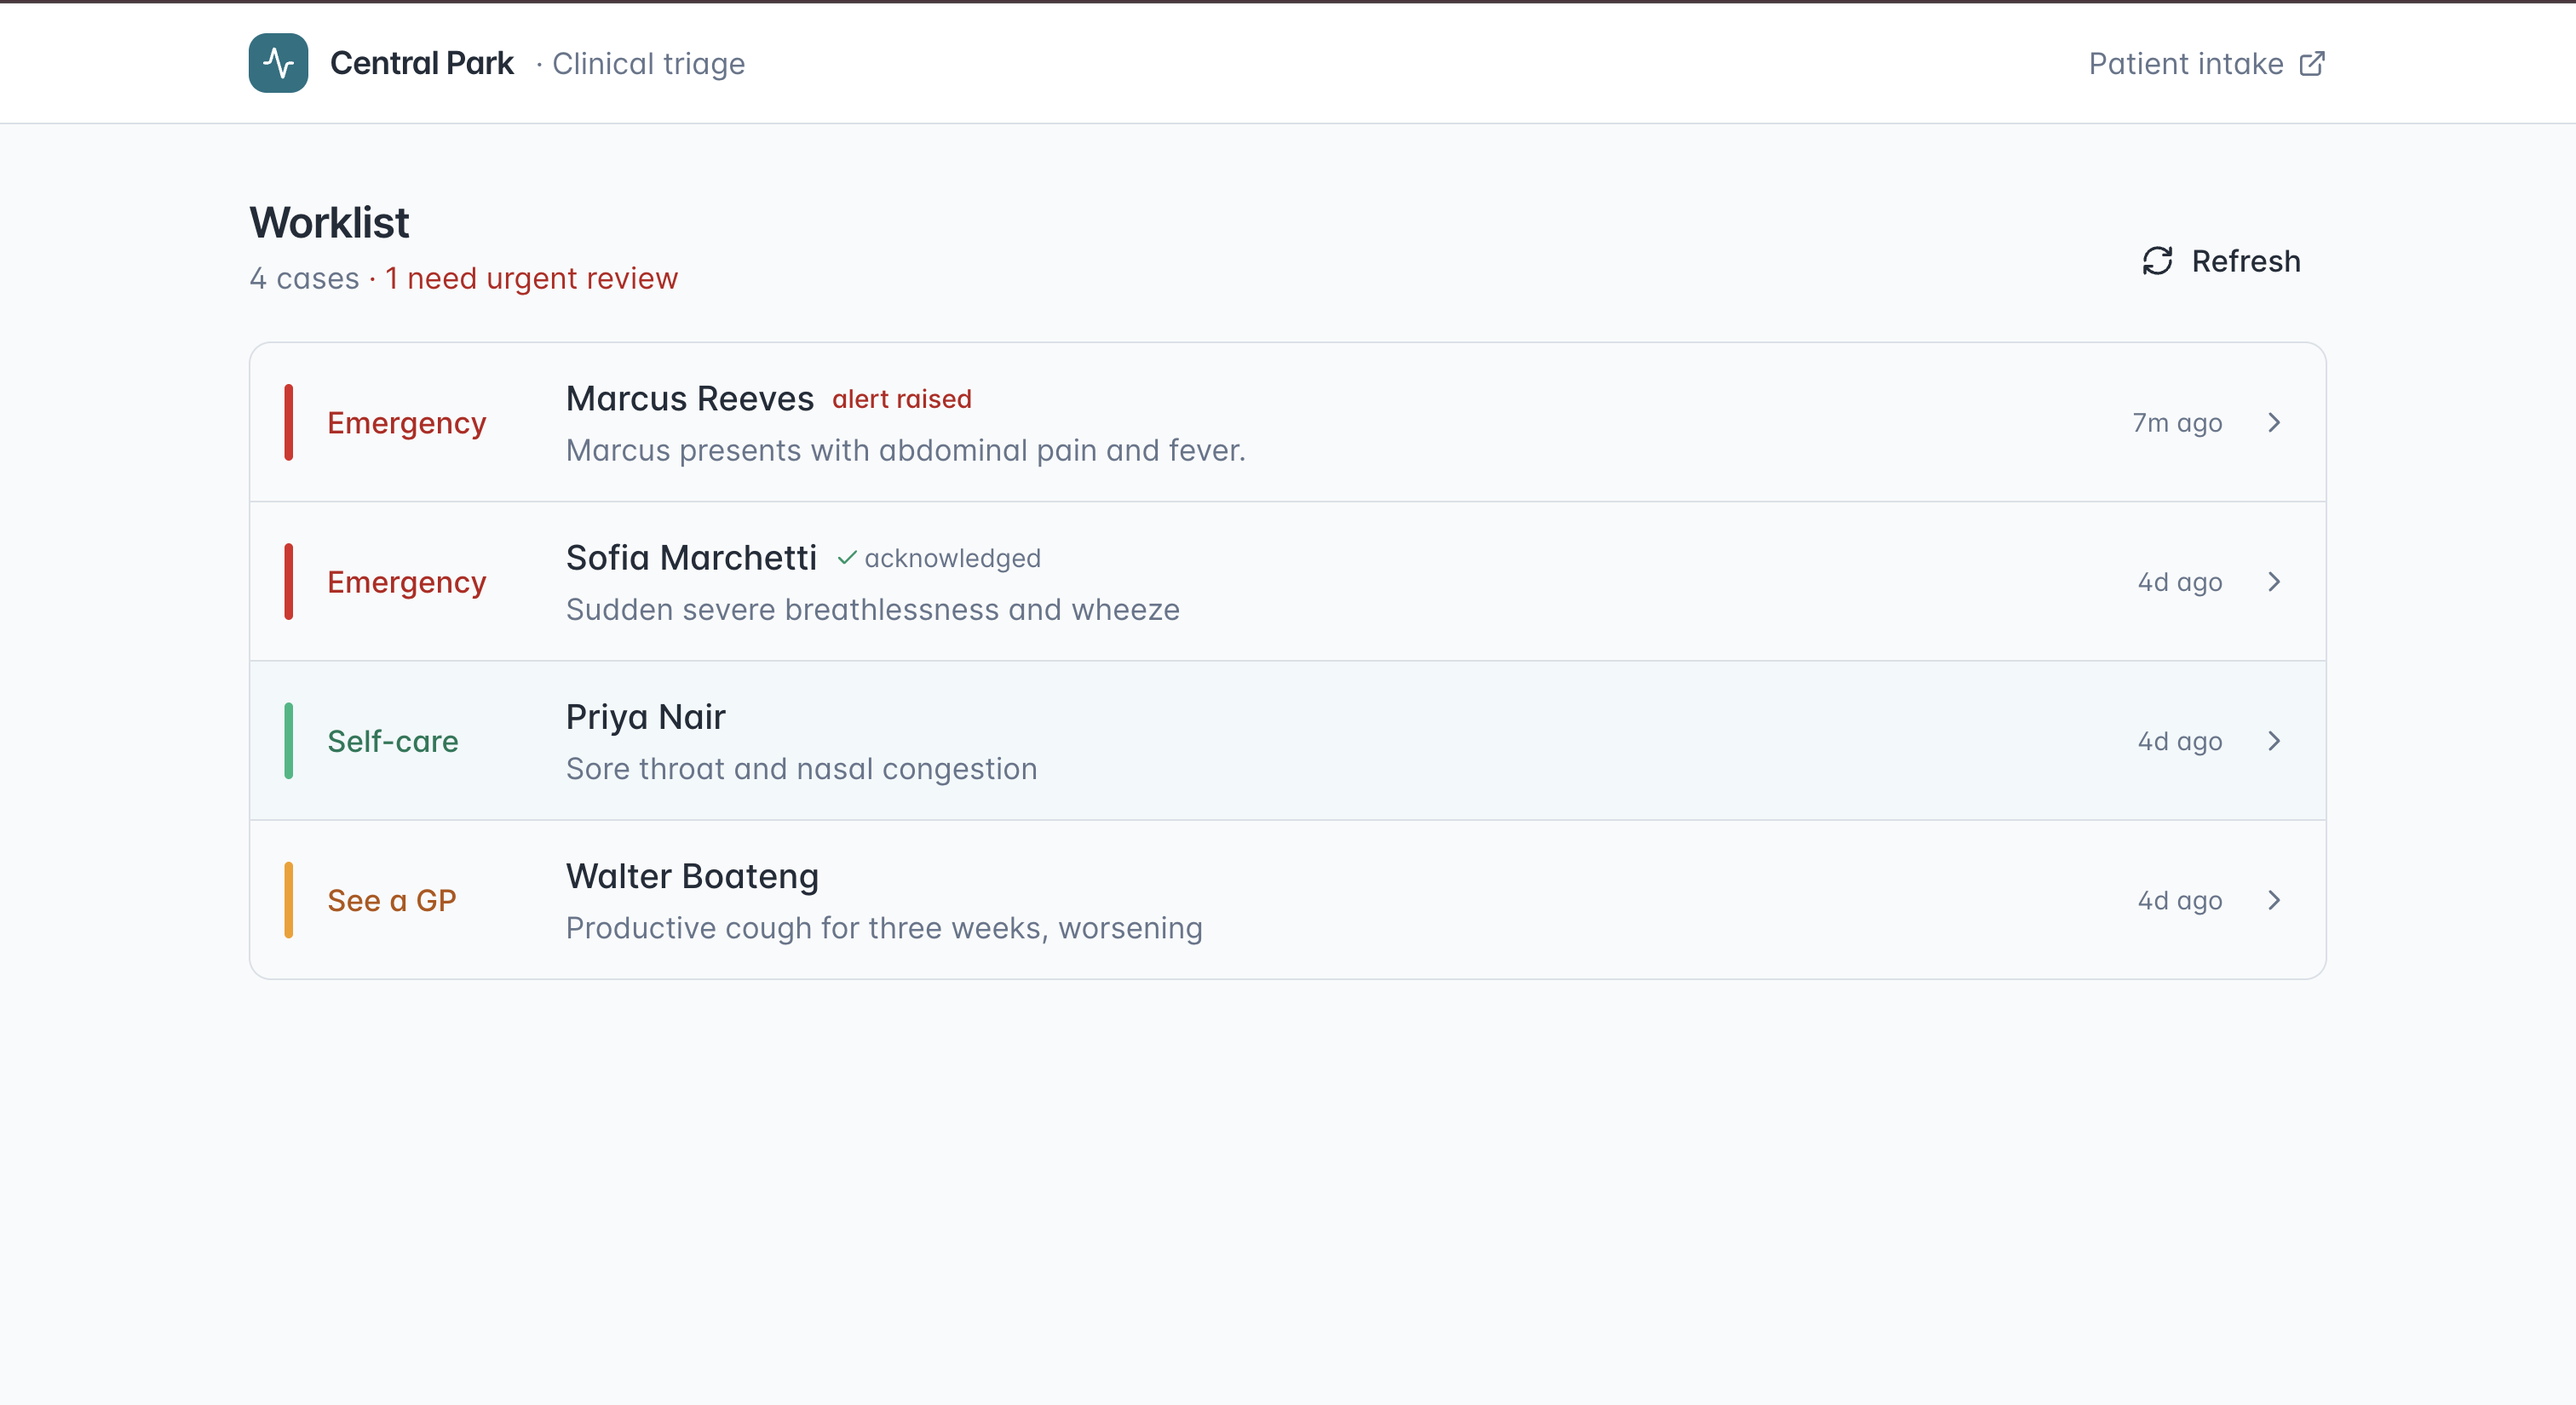
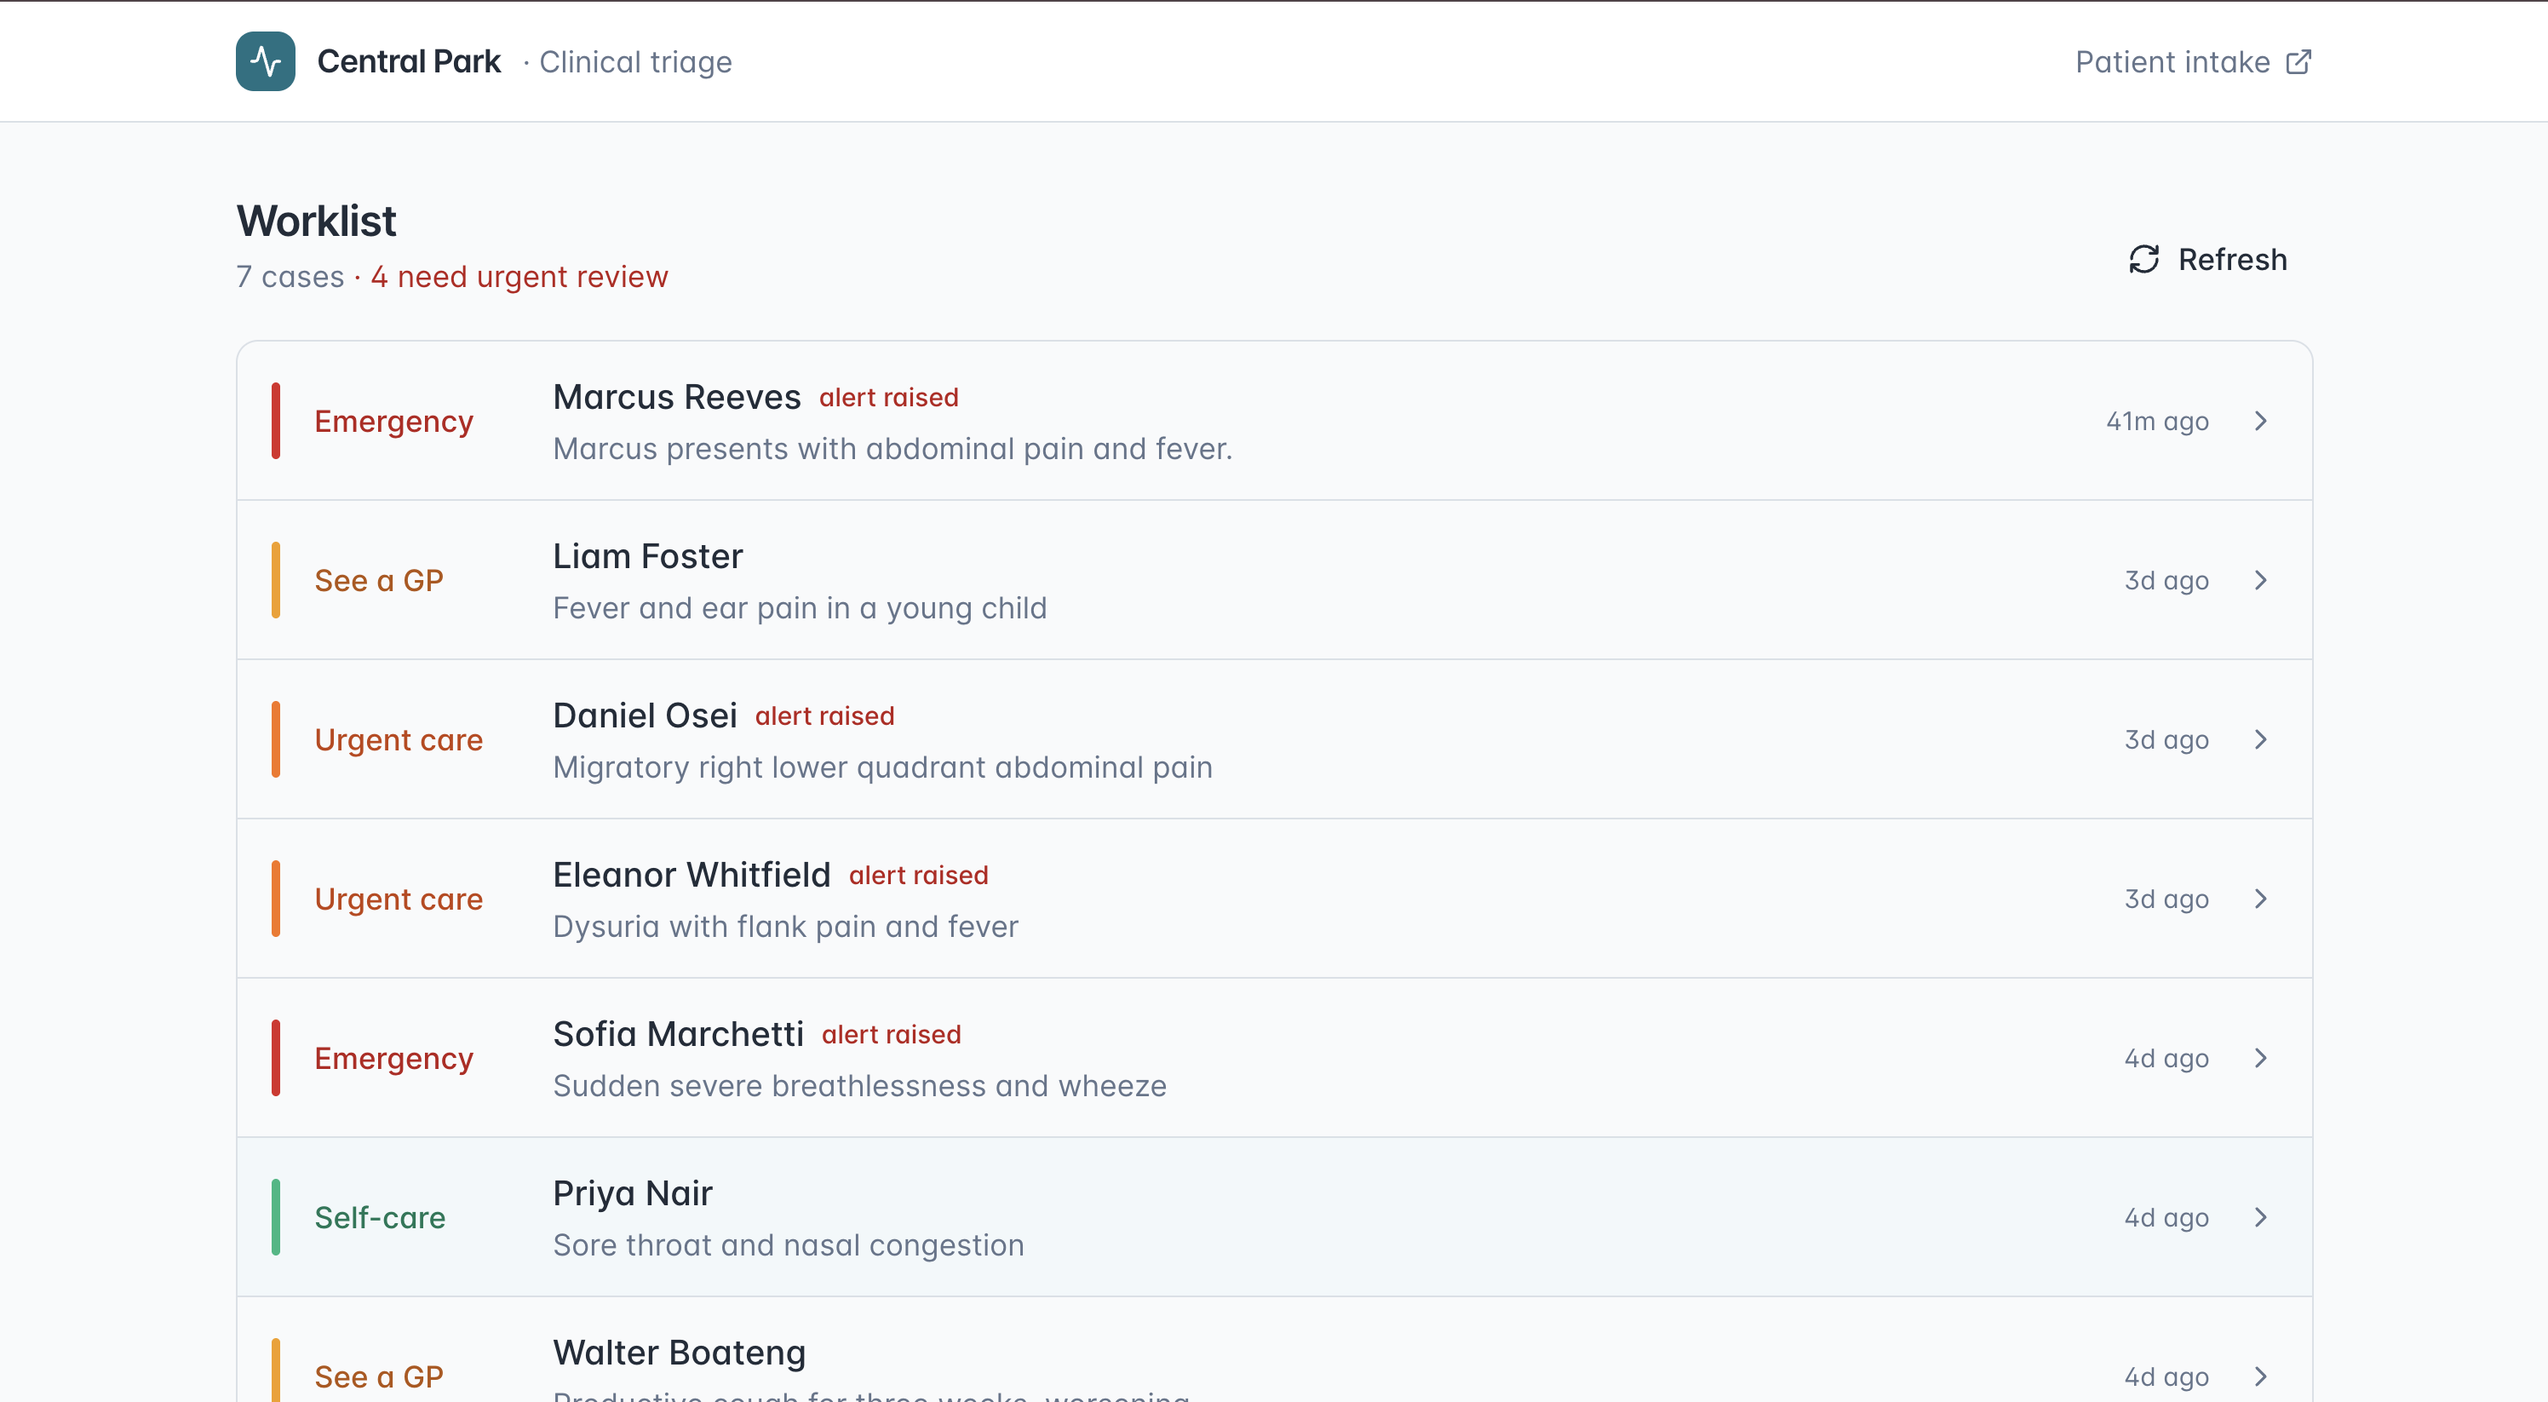
contest points in readme

diff --git a/README.md b/README.md
@@ -1,8 +1,31 @@
 # Triage Park
 
-**A conversational FHIR triage assistant.** A patient answers a short intake interview; an LLM-backed agent reads their FHIR record, retrieves matching triage guidelines by vector search, and produces a clinician handoff — a triage level (self-care / see-GP / urgent-care / ED) with a cited rationale. Every interview and its outcome are written back to FHIR, and a clinician reviews them in a worklist.
+**Triage Park automates the pre-checkup.** Every visit starts with the same manual work — take the patient's history, cross-check their record, and judge how urgent it is. Triage Park does that first pass for you: the patient answers a short intake interview, an LLM-backed agent reads their FHIR record and retrieves matching triage guidelines by vector search, and the clinician opens a ready-made handoff — a triage level (self-care / see-GP / urgent-care / ED) with a cited rationale. Every interview and its outcome is written back to FHIR.
 
 Built for the [InterSystems Programming Contest: AI Agents for FHIR](https://openexchange.intersystems.com/contest/46).
+
+---
+
+## Contest bonuses
+
+The [contest bonuses](https://community.intersystems.com/post/technology-bonuses-intersystems-programming-contest-ai-agents-fhir) this submission targets, with where each is earned. **Legend:** ✅ done · 🔜 planned.
+
+| Bonus | Points | Status | Where |
+| --- | --- | --- | --- |
+| Implement suggested task | 5 | ✅ | Conversational FHIR triage assistant — a suggested contest topic |
+| InterSystems FHIR Server usage | 2 | ✅ | Native IRIS for Health FHIR R4 endpoint — reads context, writes 5 resource types |
+| Vector Search usage | 4 | ✅ | `VECTOR(float, 1536)` guideline corpus queried with `VECTOR_COSINE` |
+| LLM AI or LangChain usage | 3 | ✅ | Five-node LangGraph state machine + structured LLM reasoning |
+| Docker container usage | 2 | ✅ | `docker compose up --build` boots all three services |
+| ZPM Package deployment | 2 | ✅ | `module.xml` manifest for IPM deployment |
+| Online Demo | 2 | 🔜 | Cloud-hosted instance |
+| Implement InterSystems Community Idea | 4 | ✅ | Implements [TTTC — *The Tool That Cares*](https://ideas.intersystems.com/ideas/DPI-I-283) (Community Opportunity) |
+| First Article on Developer Community | 2 | ✅ | Build write-up on the Developer Community |
+| Second Article on DC | 1 | ✅ | Second write-up / translation on the Developer Community |
+| First Time Contribution | 3 | ✅ | First InterSystems Open Exchange submission |
+| Video on YouTube | 9 | ✅ | [Walkthrough](https://youtu.be/g6undsoEDms) published; 2 more on channel (+6) |
+
+**Secured: 31 points** — up to **39** with the online demo (+2) and two more videos (+6).
 
 ---
 
@@ -36,9 +59,9 @@ Once seeding finishes, the console shows three example cases (self-care, see-GP,
 
 ---
 
-## Screenshots
+## Demo
 
-The patient interviews, the agent triages, and the clinician reviews — the three surfaces of the flow:
+**▶ [Watch the walkthrough](https://youtu.be/g6undsoEDms)** — the patient interviews, the agent triages, and the clinician reviews.
 
 | Patient intake interview (`/intake`) | Clinician console (`/`) |
 | --- | --- |
@@ -134,9 +157,12 @@ Seeded automatically at agent startup: the agent waits for the FHIR endpoint, th
 | **Marcus Reeves** (`demo-patient-1`) | 53, HTN / hyperlipidemia / T2DM, cardiac-risk-loaded | — (run the chest-tightness interview) |
 | **Priya Nair** | 34, no chronic conditions | Self-care — sore throat |
 | **Walter Boateng** | 70, COPD | See-GP — productive cough |
+| **Liam Foster** | 5, parent-reported, prior ear infections | See-GP — fever and ear pain (otitis media) |
+| **Eleanor Whitfield** | 72, type 2 diabetes | Urgent-care — dysuria with flank pain and fever (pyelonephritis) |
+| **Daniel Osei** | 28, no chronic conditions | Urgent-care — migratory right-lower-quadrant pain (possible appendicitis) |
 | **Sofia Marchetti** | 44, asthma | Emergency — acute breathlessness |
 
-Marcus is deliberately cardiac-risk-loaded so a chest-tightness scenario exercises real reasoning over his FHIR record.
+The seeded cases span all four triage levels — self-care, see-GP, urgent-care, and emergency — across a range of ages and presentations. Marcus is deliberately cardiac-risk-loaded so a chest-tightness scenario exercises real reasoning over his FHIR record.
 
 ---
 
